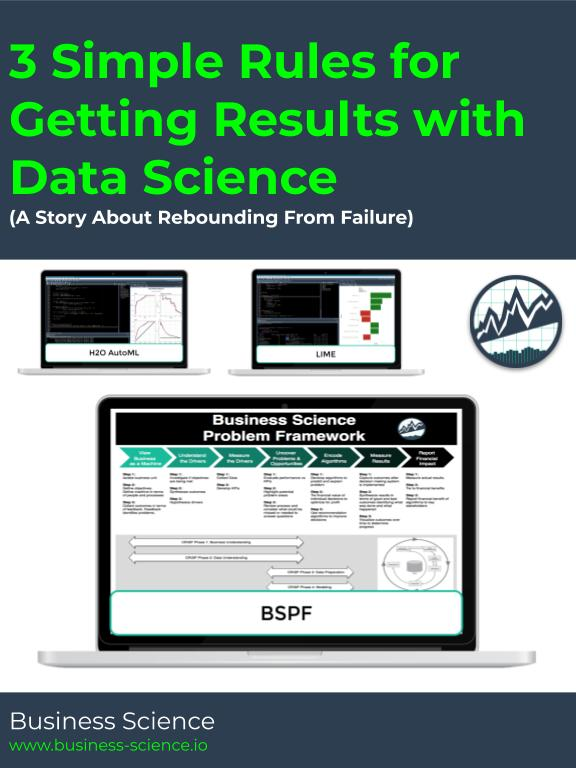
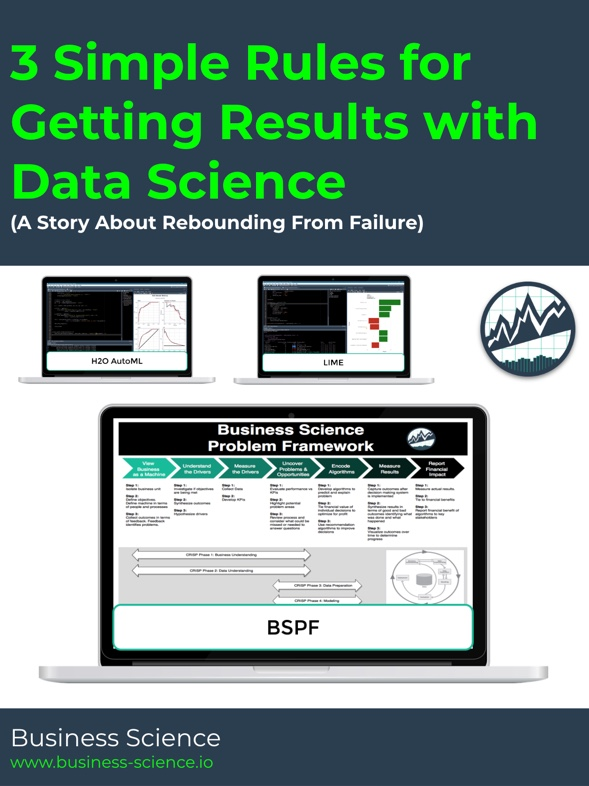
save as retina image

diff --git a/_posts/2019-05-05-getting-results-with-data-science.md b/_posts/2019-05-05-getting-results-with-data-science.md
@@ -6,8 +6,8 @@ author: "Matt Dancho"
 date: 2019-05-05 6:30:00
 categories: [Business]
 tags: [R, Learn-Business, Data Science]
-image: 2019-05-03-getting-results-with-data-science/3_simple_rules_results_with_data_science.jpg
-image_preview: 2019-05-03-getting-results-with-data-science/3_simple_rules_results_with_data_science.jpg
+image: 2019-05-03-getting-results-with-data-science/3_simple_rules_results_with_data_science_retina.jpg
+image_preview: 2019-05-03-getting-results-with-data-science/3_simple_rules_results_with_data_science_retina.jpg
 ---
 
 ___Are you finding it difficult to show your organization results with data science?___
